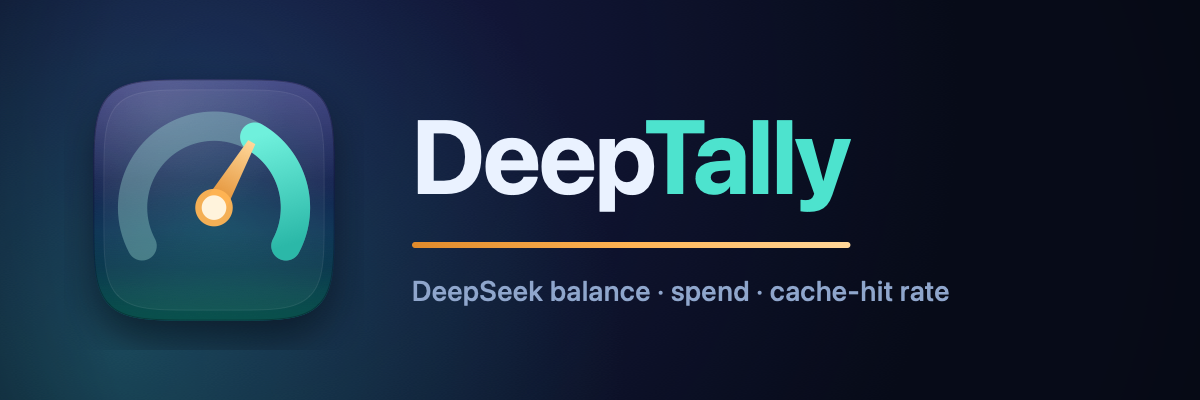
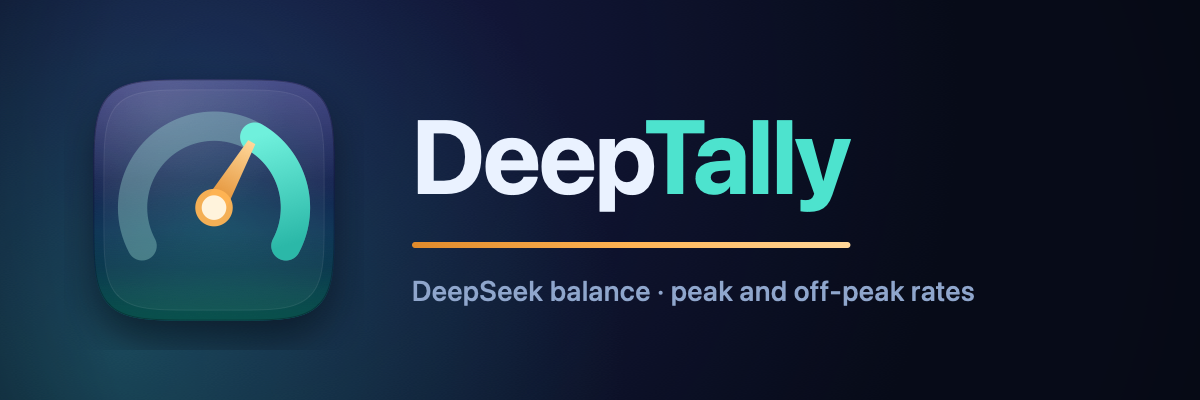
refactor: drop the last dead API members and refresh the user-visible text

Changed region(s): [[0.555, 0.69, 0.8325, 0.78]]

diff --git a/Tests/DeepTallyCLITests/CommandSurfaceTests.swift b/Tests/DeepTallyCLITests/CommandSurfaceTests.swift
@@ -1,0 +1,35 @@
+// SPDX-License-Identifier: GPL-3.0-or-later
+import DeepTallyCore
+import Testing
+
+@testable import deeptally
+
+/// The command surface that needs no key and no network: what the CLI accepts, what it refuses, and
+/// the exit codes a script branches on. `balance` is deliberately absent — it would resolve the real
+/// Keychain and call the API (its arithmetic is covered by ``BalanceExitCodeTests``).
+@Suite("CLI command surface")
+struct CommandSurfaceTests {
+  @Test("the retained commands are accepted")
+  func retainedCommands() async {
+    // `rate` reads the bundled price table only: no key, no network, no ledger.
+    #expect(await CLI.run(["rate"]) == 0)
+    #expect(await CLI.run(["--help"]) == 0)
+    #expect(await CLI.run(["--version"]) == 0)
+    // A bare `deeptally` prints the help and exits 0, which the help text promises.
+    #expect(await CLI.run([]) == 0)
+  }
+
+  @Test("a command deleted with the usage half is an unknown command, not a silent success")
+  func removedCommandsAreUnknown() async {
+    #expect(await CLI.run(["usage"]) == 1)
+    #expect(await CLI.run(["import"]) == 1)
+    #expect(await CLI.run(["ledger", "export", "/tmp/x.csv"]) == 1)
+  }
+
+  @Test("an unknown command, a lone key subcommand and an unknown flag all fail as usage errors")
+  func usageErrors() async {
+    #expect(await CLI.run(["typo"]) == 1)
+    #expect(await CLI.run(["key"]) == 1)
+    #expect(await CLI.run(["rate", "--nonsense"]) == 1)
+  }
+}

diff --git a/Sources/DeepTallyCore/API/DeepSeekClient.swift b/Sources/DeepTallyCore/API/DeepSeekClient.swift
@@ -1,8 +1,8 @@
 // SPDX-License-Identifier: GPL-3.0-or-later
 import Foundation
 
-/// Minimal DeepSeek HTTP client. Only the balance and the model list live here; the app records no
-/// per-call usage, because the API stores none.
+/// Minimal DeepSeek HTTP client. Only the balance lives here: DeepSeek exposes no usage or spend
+/// endpoint, and this app records no per-call usage of its own.
 public struct DeepSeekClient: Sendable {
   public enum APIError: Swift.Error, Sendable, Equatable {
     case missingAPIKey
@@ -27,22 +27,8 @@ public struct DeepSeekClient: Sendable {
     self.keyProvider = keyProvider
   }
 
-  /// Development/CLI convenience. The app proper imports the key from the shell into the Keychain
-  /// and reads it from there (Step 3).
-  public static let keyFromEnvironment: @Sendable () -> String? = {
-    ProcessInfo.processInfo.environment["DEEPSEEK_API_KEY"]
-  }
-
   public func balance() async throws -> Balance {
     try await get("/user/balance")
-  }
-
-  public func models() async throws -> [ModelInfo] {
-    struct ModelsResponse: Decodable {
-      let data: [ModelInfo]
-    }
-    let response: ModelsResponse = try await get("/models")
-    return response.data
   }
 
   // MARK: - Transport

diff --git a/Package.swift b/Package.swift
@@ -54,8 +54,8 @@ let package = Package(
             ]
         ),
         // Same reason as the app target, which this mirrors: `deeptally` is an executable, and SwiftPM
-        // links it into the test bundle in place, so the command surface, the ledger path and the
-        // reports are tested without extracting a library or duplicating a seam.
+        // links it into the test bundle in place, so the command surface and the reports it prints are
+        // tested without extracting a library or duplicating a seam.
         .testTarget(
             name: "DeepTallyCLITests",
             dependencies: ["deeptally", "DeepTallyCore"],

diff --git a/Sources/DeepTallyCore/Types.swift b/Sources/DeepTallyCore/Types.swift
@@ -128,23 +128,6 @@ public struct Balance: Sendable, Equatable, Codable {
   }
 }
 
-// MARK: - Models
-
-public struct ModelInfo: Sendable, Equatable, Codable {
-  public let id: String
-  public let ownedBy: String?
-
-  public init(id: String, ownedBy: String? = nil) {
-    self.id = id
-    self.ownedBy = ownedBy
-  }
-
-  private enum CodingKeys: String, CodingKey {
-    case id
-    case ownedBy = "owned_by"
-  }
-}
-
 // MARK: - Pricing and peak / off-peak
 
 /// A daily UTC window (start inclusive, end exclusive) in which peak prices apply.

diff --git a/Scripts/make-icon.swift b/Scripts/make-icon.swift
@@ -614,7 +614,7 @@ private func drawHero(_ cg: CGContext, pixelsWide: Int, pixelsHigh: Int) {
       string: "Tally",
       attributes: [.font: wordFont, .foregroundColor: color(Palette.wordTeal), .kern: -1.5]))
   let tagline = NSAttributedString(
-    string: "DeepSeek balance · spend · cache-hit rate",
+    string: "DeepSeek balance · peak and off-peak rates",
     attributes: [
       .font: NSFont.systemFont(ofSize: 28, weight: .medium),
       .foregroundColor: color(Palette.steel),

diff --git a/docs/ICON.md b/docs/ICON.md
@@ -100,7 +100,7 @@ when loading via `NSImage(contentsOf:)` set `isTemplate = true` explicitly.
 
 `docs/assets/hero.png` (1200×400) is a dark plate: the app icon at 300 px, the wordmark "DeepTally"
 (SF Pro Bold 104 pt, "Deep" in near-white, "Tally" in teal) and the tagline
-"DeepSeek balance · spend · cache-hit rate", with an amber accent rule under the wordmark. It is
+"DeepSeek balance · peak and off-peak rates", with an amber accent rule under the wordmark. It is
 generated by the same script so the hero and the icon can never drift apart.
 
 ## Regenerate
